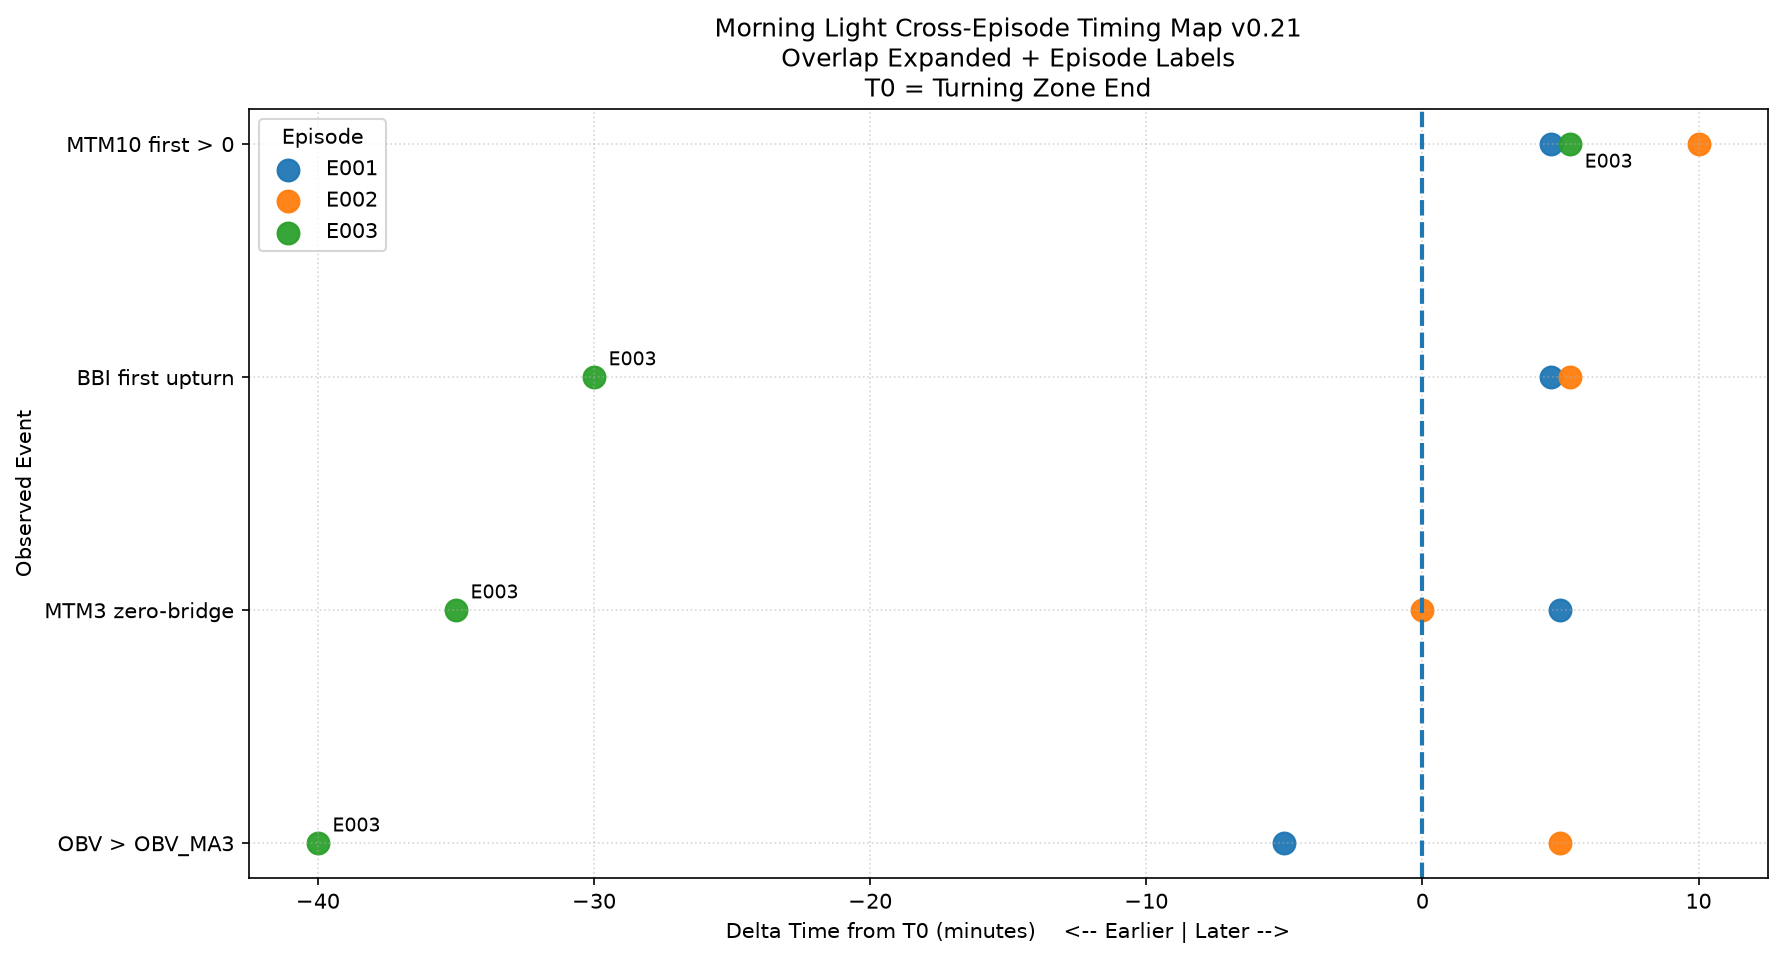
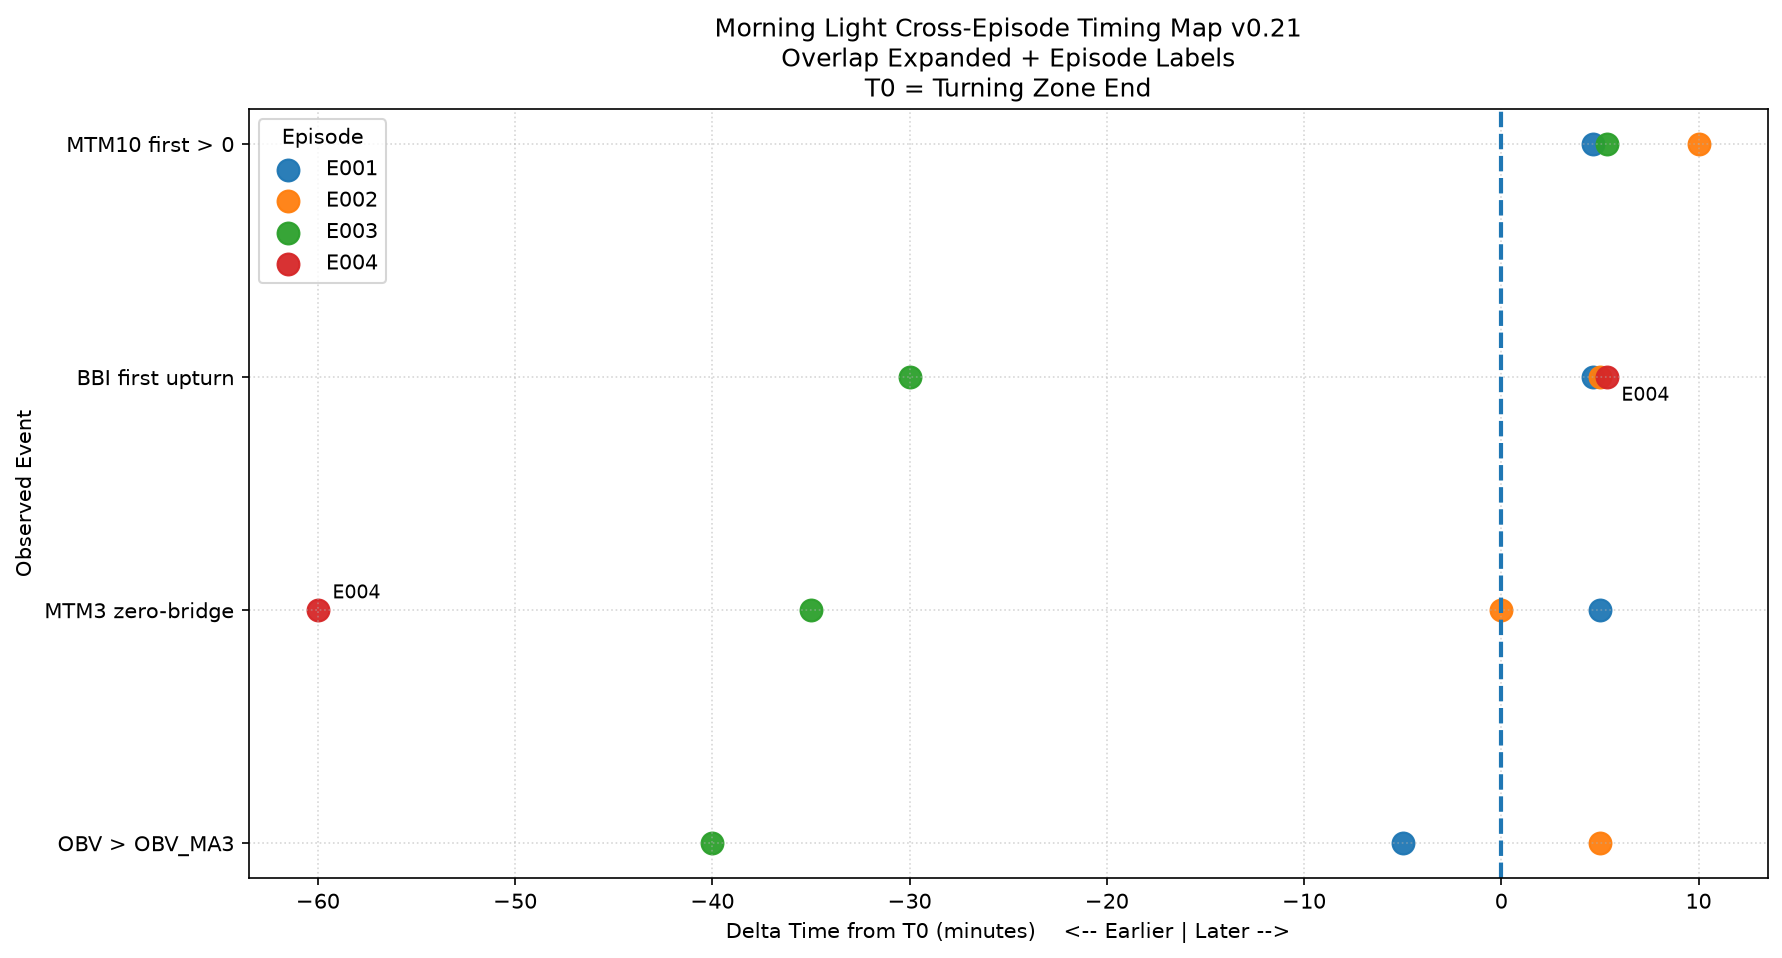
Milestone E004: XAUUSD evidence and cross-episode v0.21

diff --git a/research/compare_episodes.py b/research/compare_episodes.py
@@ -77,9 +77,21 @@ episode_E003 = {
     "research_type": "intraday_reversal",
 }
 
-# Select episode for current research run
-episode = episode_E003
+episode_E004 = {
+    "episode_id": "E004",
+    "ticker": "XAUUSD",
+    "date": "2026-08-07",
+    "timeframe": "5m",
+    "start_time": "19:15",
+    "turning_zone_start": "20:15",
+    "turning_zone_end": "20:30",
+    "end_time": "20:45",
+    "research_type": "intraday_reversal",
+}
 
+
+# Select episode for current research run
+episode = episode_E004
 
 
 print()
@@ -160,9 +172,32 @@ evidence_rows_E003 = [
     ("13:25", 3895,   0,  4.0, -2942, -2748, 3886.52),
     ("13:30", 3900,  15,  7.0, -2521, -2680, 3888.91),
 ]
+# ------------------------------------------------------------
+# E004 - XAUUSD - 2026-08-07 - 5-minute evidence
+# ------------------------------------------------------------
+
+evidence_rows_E004 = [
+    # time, close, MTM3, MTM10, OBV, OBV_MA3, BBI
+    ("19:15", 4319.49,  2.76,  7.05, None, None, 4319.08),
+    ("19:20", 4320.38, -3.32,  6.66, None, None, 4319.27),
+    ("19:25", 4324.23, -0.97,  8.44, None, None, 4319.91),
+    ("19:30", 4324.97,  5.48,  7.77, None, None, 4320.82),
+    ("19:35", 4324.96,  4.58,  8.19, None, None, 4321.61),
+    ("19:40", 4323.28, -0.95,  5.08, None, None, 4322.00),
+    ("19:45", 4322.83, -2.14,  5.52, None, None, 4322.15),
+    ("19:50", 4323.82, -1.14,  7.09, None, None, 4322.28),
+    ("19:55", 4325.74,  2.46,  2.04, None, None, 4322.66),
+    ("20:05", 4319.67,  None,  None, None, None, None),
+    ("20:15", 4314.89,  None,  None, None, None, None),
+    ("20:25", 4310.52,  None,  None, None, None, None),
+    ("20:30", 4311.10, -3.79, -12.18, None, None, 4315.81),
+    ("20:35", 4360.40, 46.81,  None, None, None, 4323.20),
+    ("20:45", 4366.41, 55.31,  None, None, None, 4340.55),
+]
+
 
 # Select evidence rows for current research run
-evidence_rows = evidence_rows_E003
+evidence_rows = evidence_rows_E004
 
 columns = [
     "time",
@@ -186,10 +221,13 @@ elif episode["episode_id"] == "E002":
     selected_rows = evidence_rows_E002
 elif episode["episode_id"] == "E003":
     selected_rows = evidence_rows_E003
+elif episode["episode_id"] == "E004":
+    selected_rows = evidence_rows_E004
 else:
     raise ValueError(
         f"Unknown episode_id: {episode['episode_id']}"
     )
+
 
 evidence = pd.DataFrame(selected_rows, columns=columns)
 

diff --git a/research/cross_episode_matrix.py b/research/cross_episode_matrix.py
@@ -31,6 +31,7 @@ episode_files = {
     "E001": REPORTS_DIR / "episode_E001_evidence.csv",
     "E002": REPORTS_DIR / "episode_E002_evidence.csv",
     "E003": REPORTS_DIR / "episode_E003_evidence.csv",
+    "E004": REPORTS_DIR / "episode_E004_evidence.csv",
 
 }
 
@@ -129,6 +130,7 @@ turning_zone_end = {
     "E001": "13:00",
     "E002": "13:00",
     "E003": "13:05",
+    "E004": "20:30",
 }
 matrix_rows = []
 
